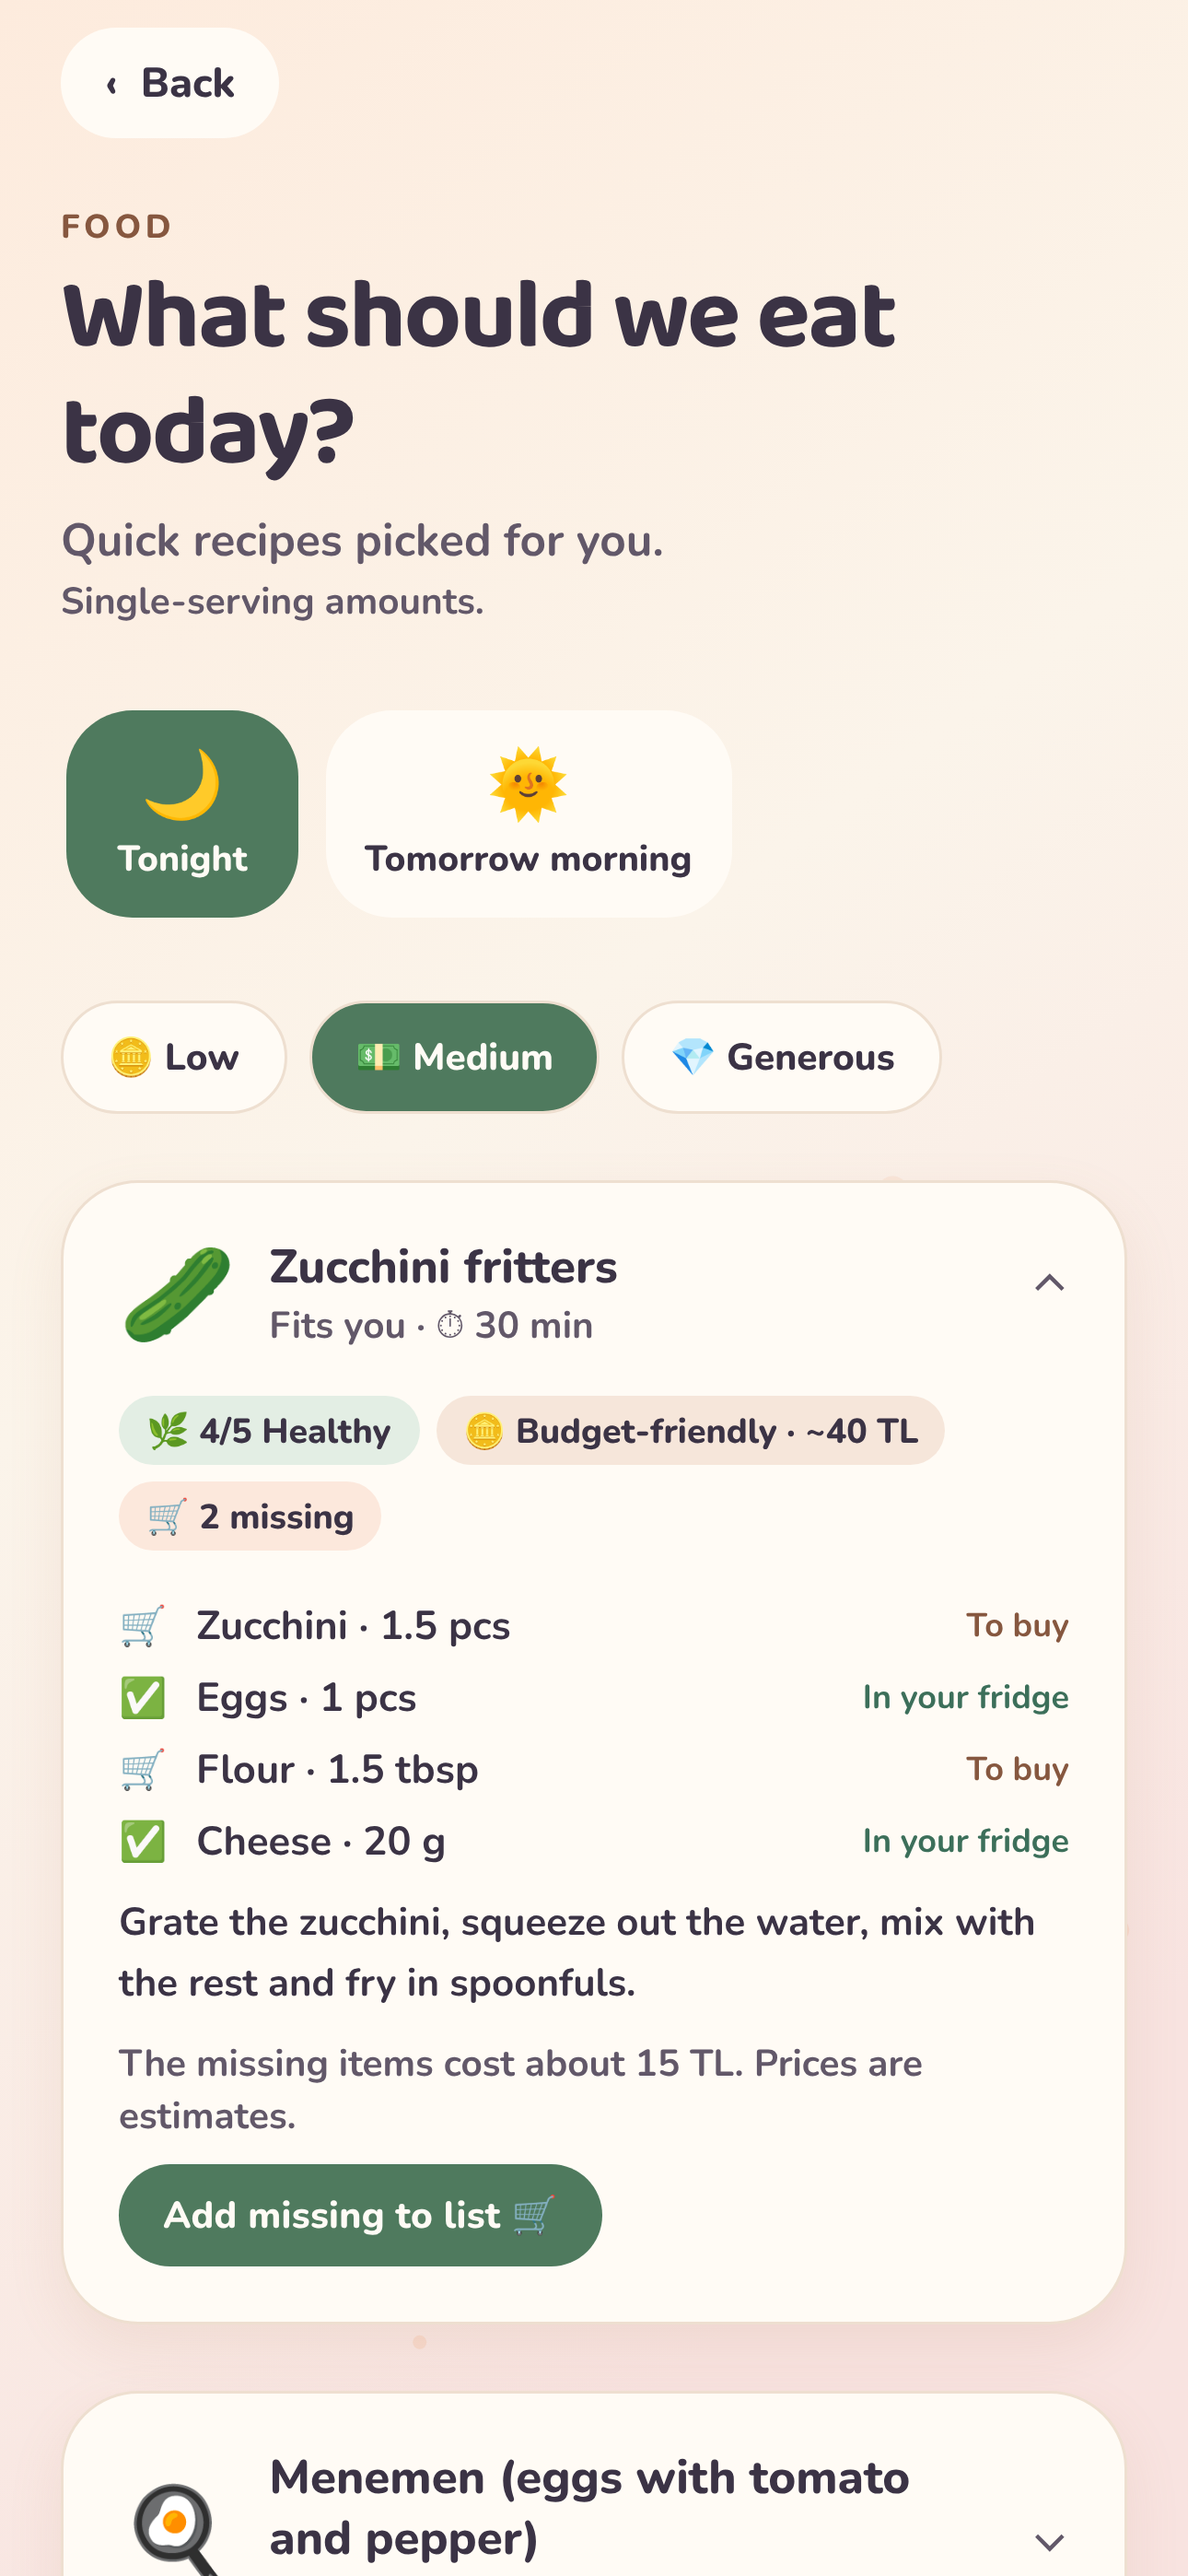
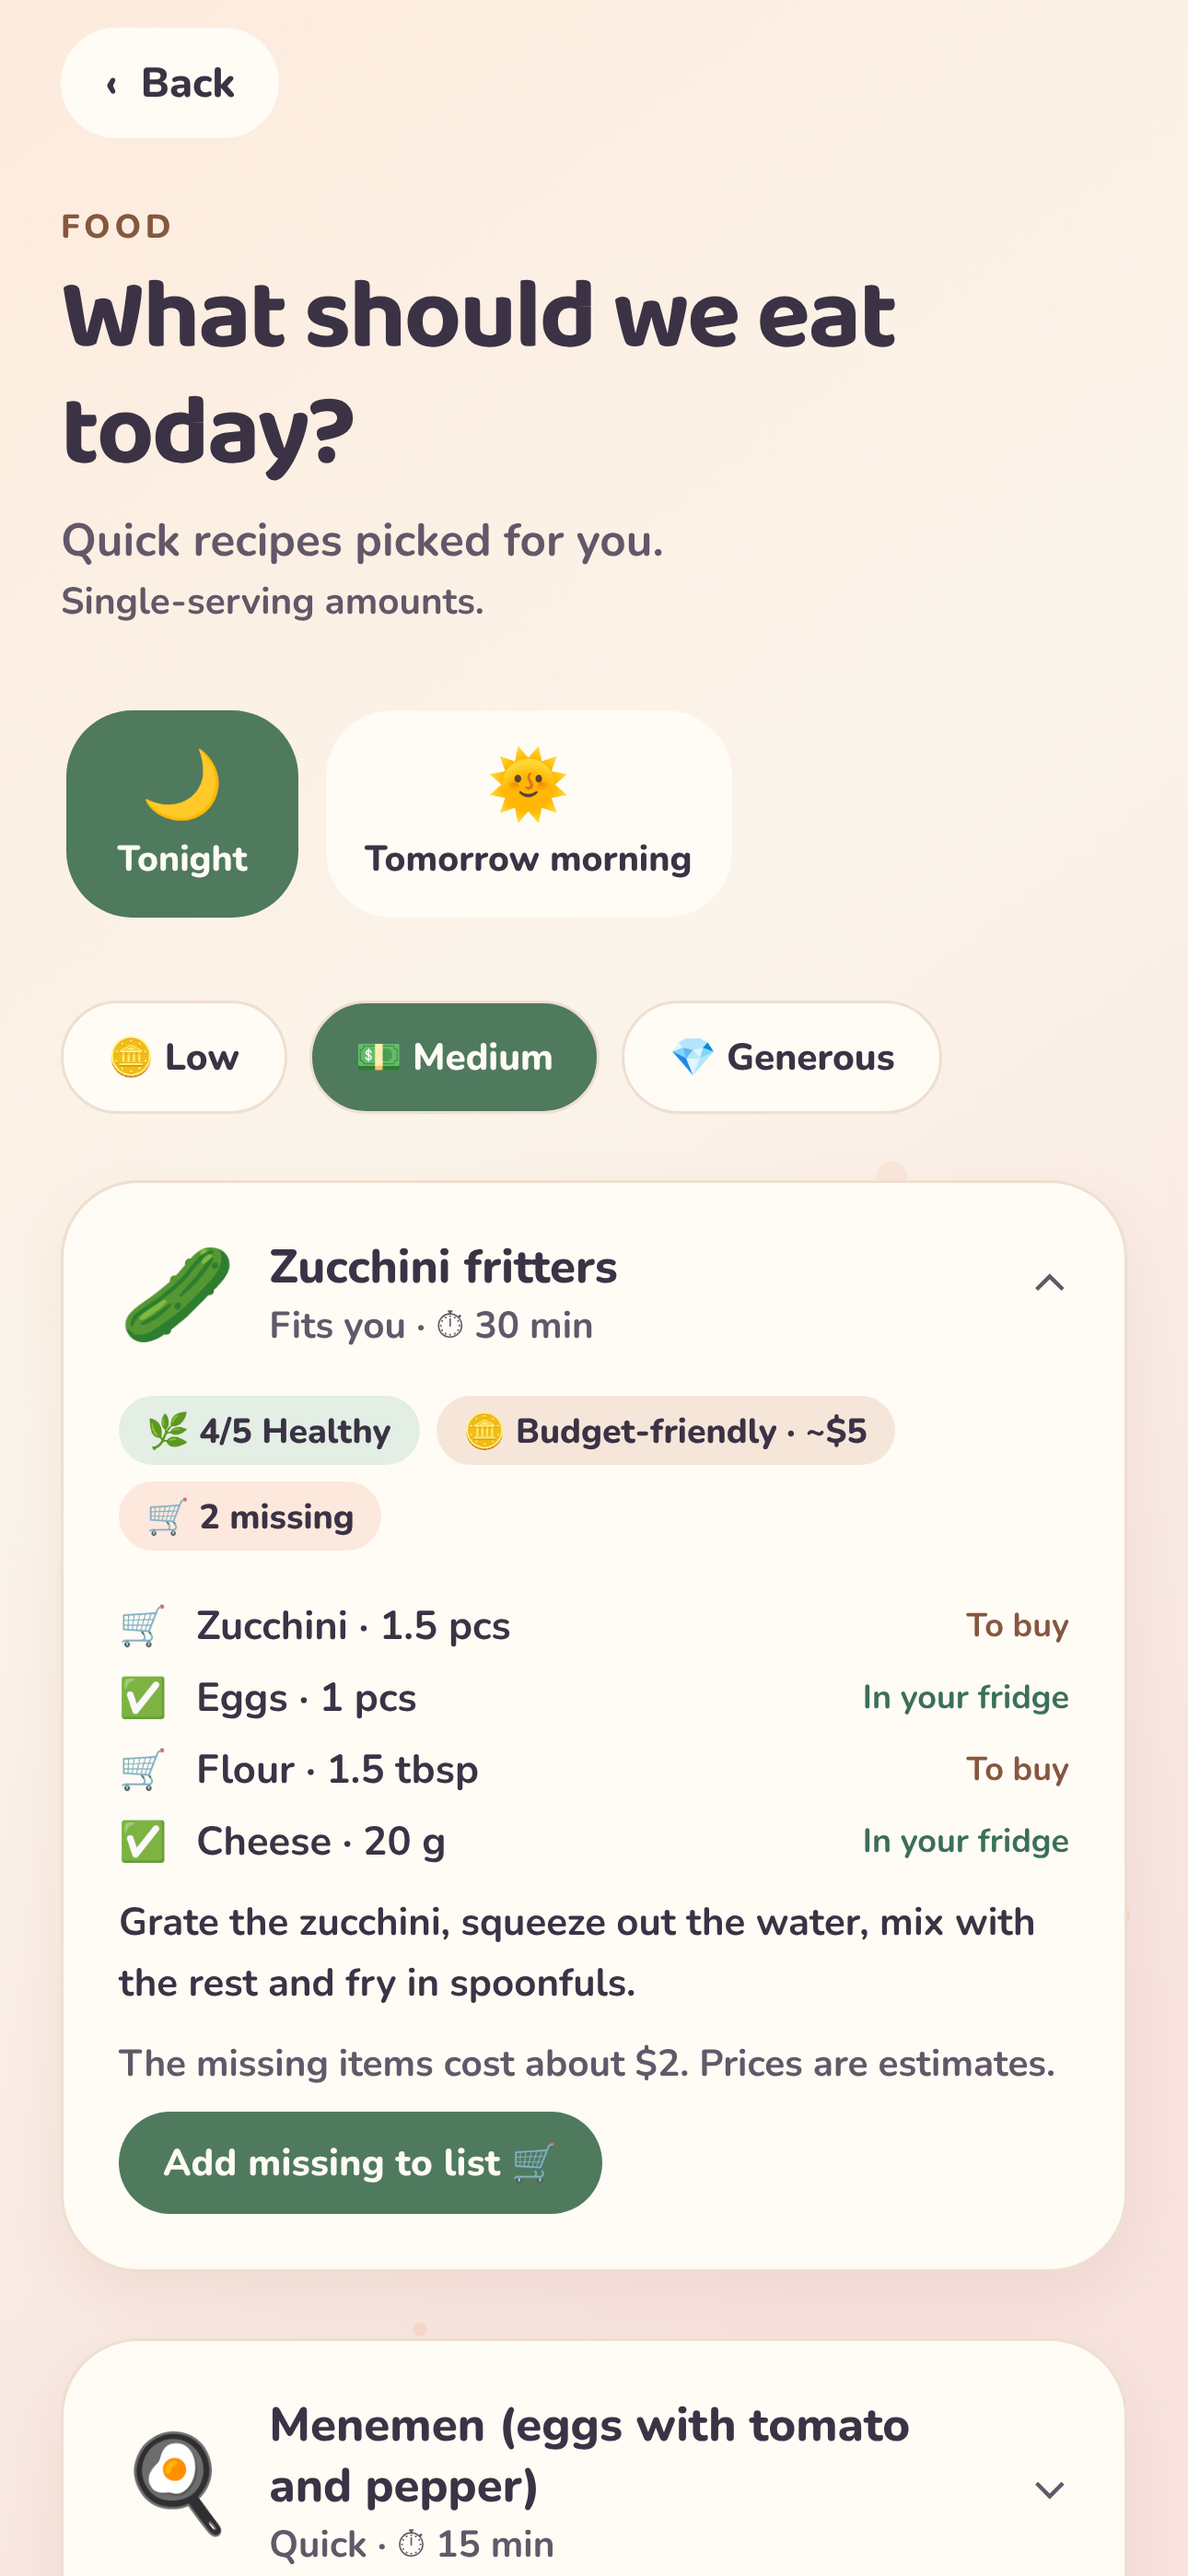
Mağaza EN: yemek görselinde TL yerine dolar
Claude-Session: https://claude.ai/code/session_01SaDd7bEhmATwQDt8e9cgXb

diff --git a/scripts/store/capture.js b/scripts/store/capture.js
@@ -24,7 +24,7 @@ const OV=[[/(\d+) tasks seni bekliyor\. İstersen birini yapalım mı\?/,'$1 tas
 
 const TXJS=lang==='en'?fs.readFileSync('/tmp/tx.js','utf8'):null;
 const OVSRC=JSON.stringify(OV.map(([a,b])=>[a.source,b]));
-const DOMTX=`(()=>{const OV=${OVSRC}.map(([a,b])=>[new RegExp(a),b]);const ovr=t=>{for(const [a,b] of OV)t=t.replace(a,b);return t;};const run=()=>{const w=document.createTreeWalker(document.body||document,4);let n;while(n=w.nextNode()){const v=ovr(n.nodeValue);if(v!==n.nodeValue)n.nodeValue=v;}document.querySelectorAll('div,span,input,textarea').forEach(el=>{if(el.placeholder){const t=window.__tx(el.placeholder);if(t!==el.placeholder)el.placeholder=t;}
+const DOMTX=`(()=>{const OV=${OVSRC}.map(([a,b])=>[new RegExp(a),b]);const ovr=t=>{for(const [a,b] of OV)t=t.replace(a,b);return t.replace(/(\\d+)\\s?TL/g,(m,n)=>'$'+Math.max(1,Math.round(n/8)));};const run=()=>{const w=document.createTreeWalker(document.body||document,4);let n;while(n=w.nextNode()){const v=ovr(n.nodeValue);if(v!==n.nodeValue)n.nodeValue=v;}document.querySelectorAll('div,span,input,textarea').forEach(el=>{if(el.placeholder){const t=window.__tx(el.placeholder);if(t!==el.placeholder)el.placeholder=t;}
 const kids=[...el.childNodes];if(!kids.length||!kids.every(k=>k.nodeType===3))return;const j=kids.map(k=>k.nodeValue).join('');if(!j.trim())return;const t=ovr(window.__tx(j));if(t!==j){kids[0].nodeValue=t;kids.slice(1).forEach(k=>k.nodeValue='');}});};
 new MutationObserver(()=>{clearTimeout(window.__t);window.__t=setTimeout(run,50);}).observe(document,{childList:true,subtree:true,characterData:true});setInterval(run,500);})()`;
 const state=fs.readFileSync(`/tmp/seed-${lang}.json`,'utf8');
